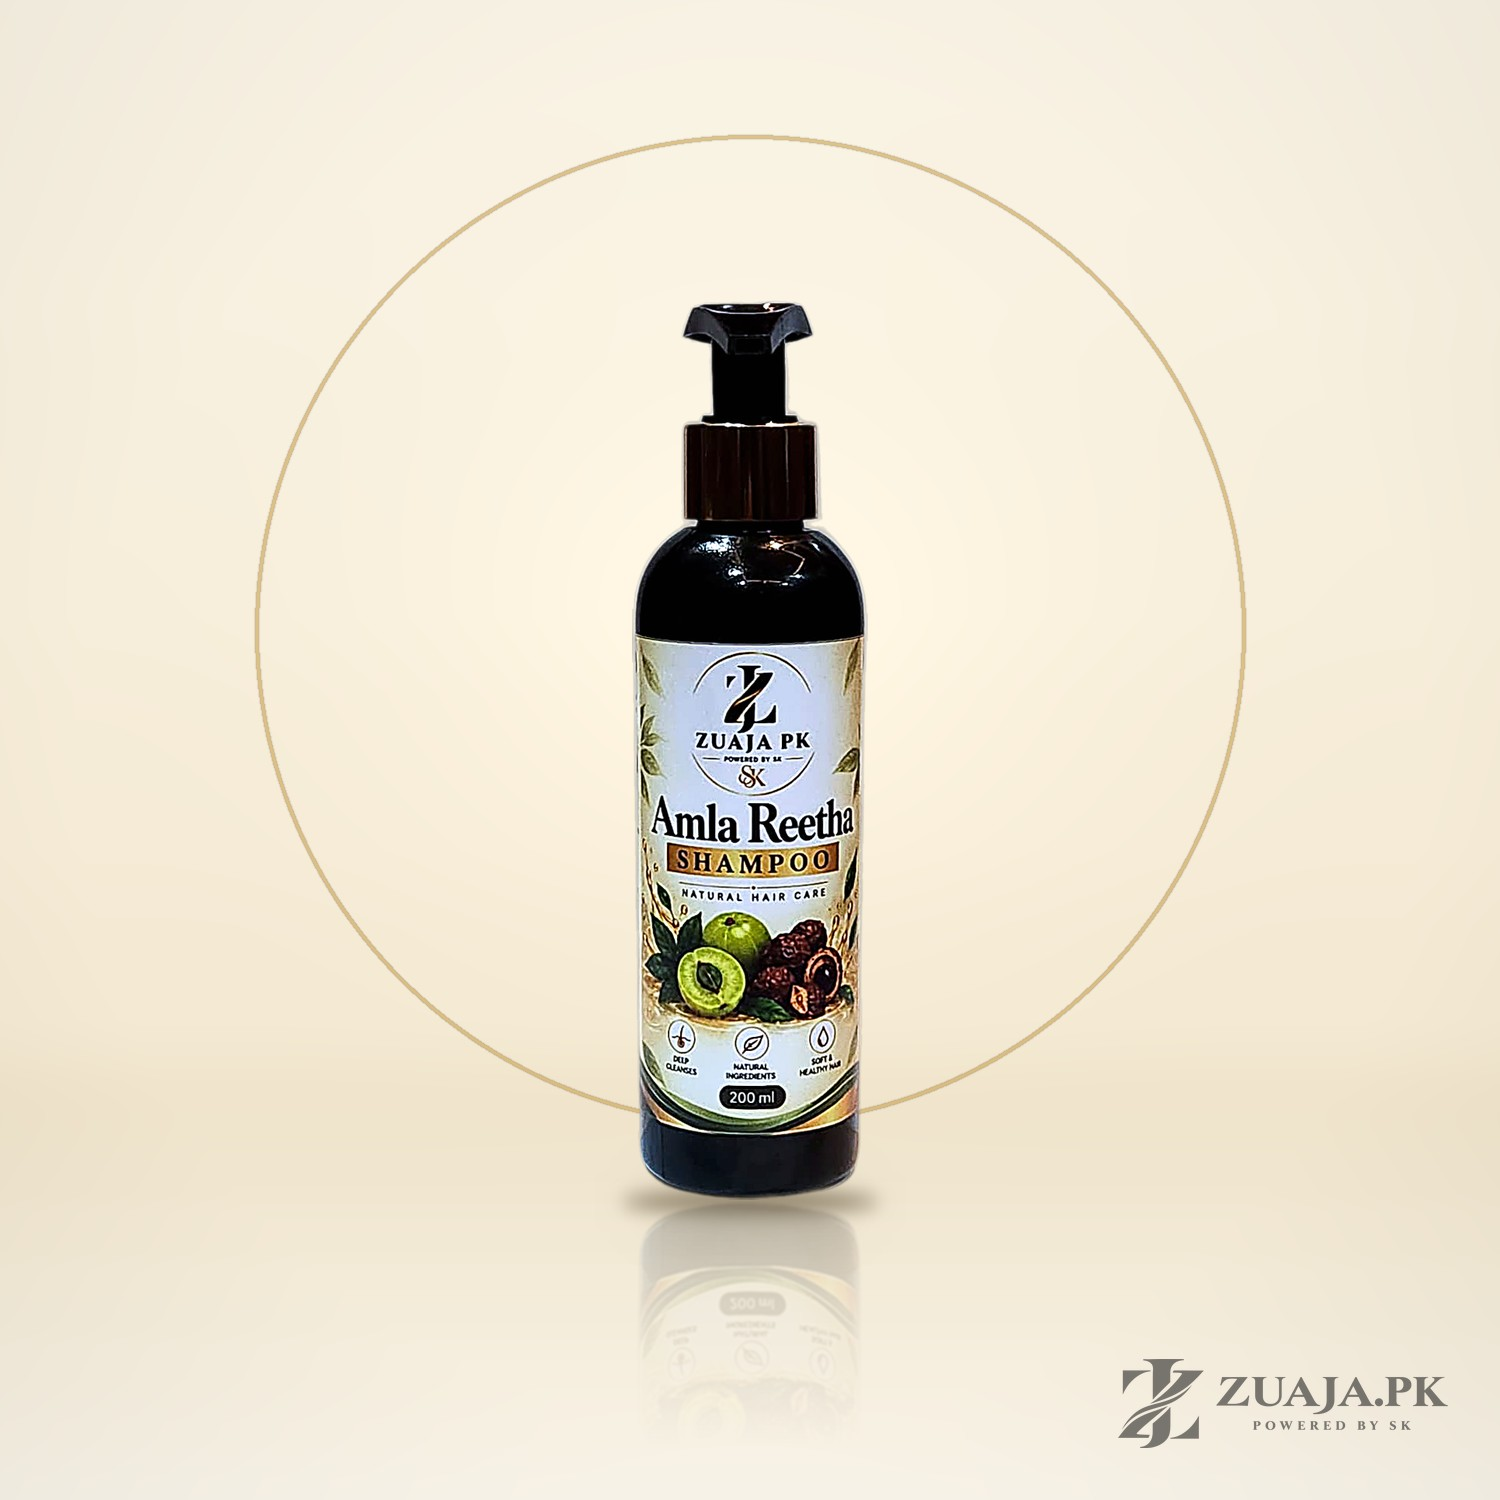
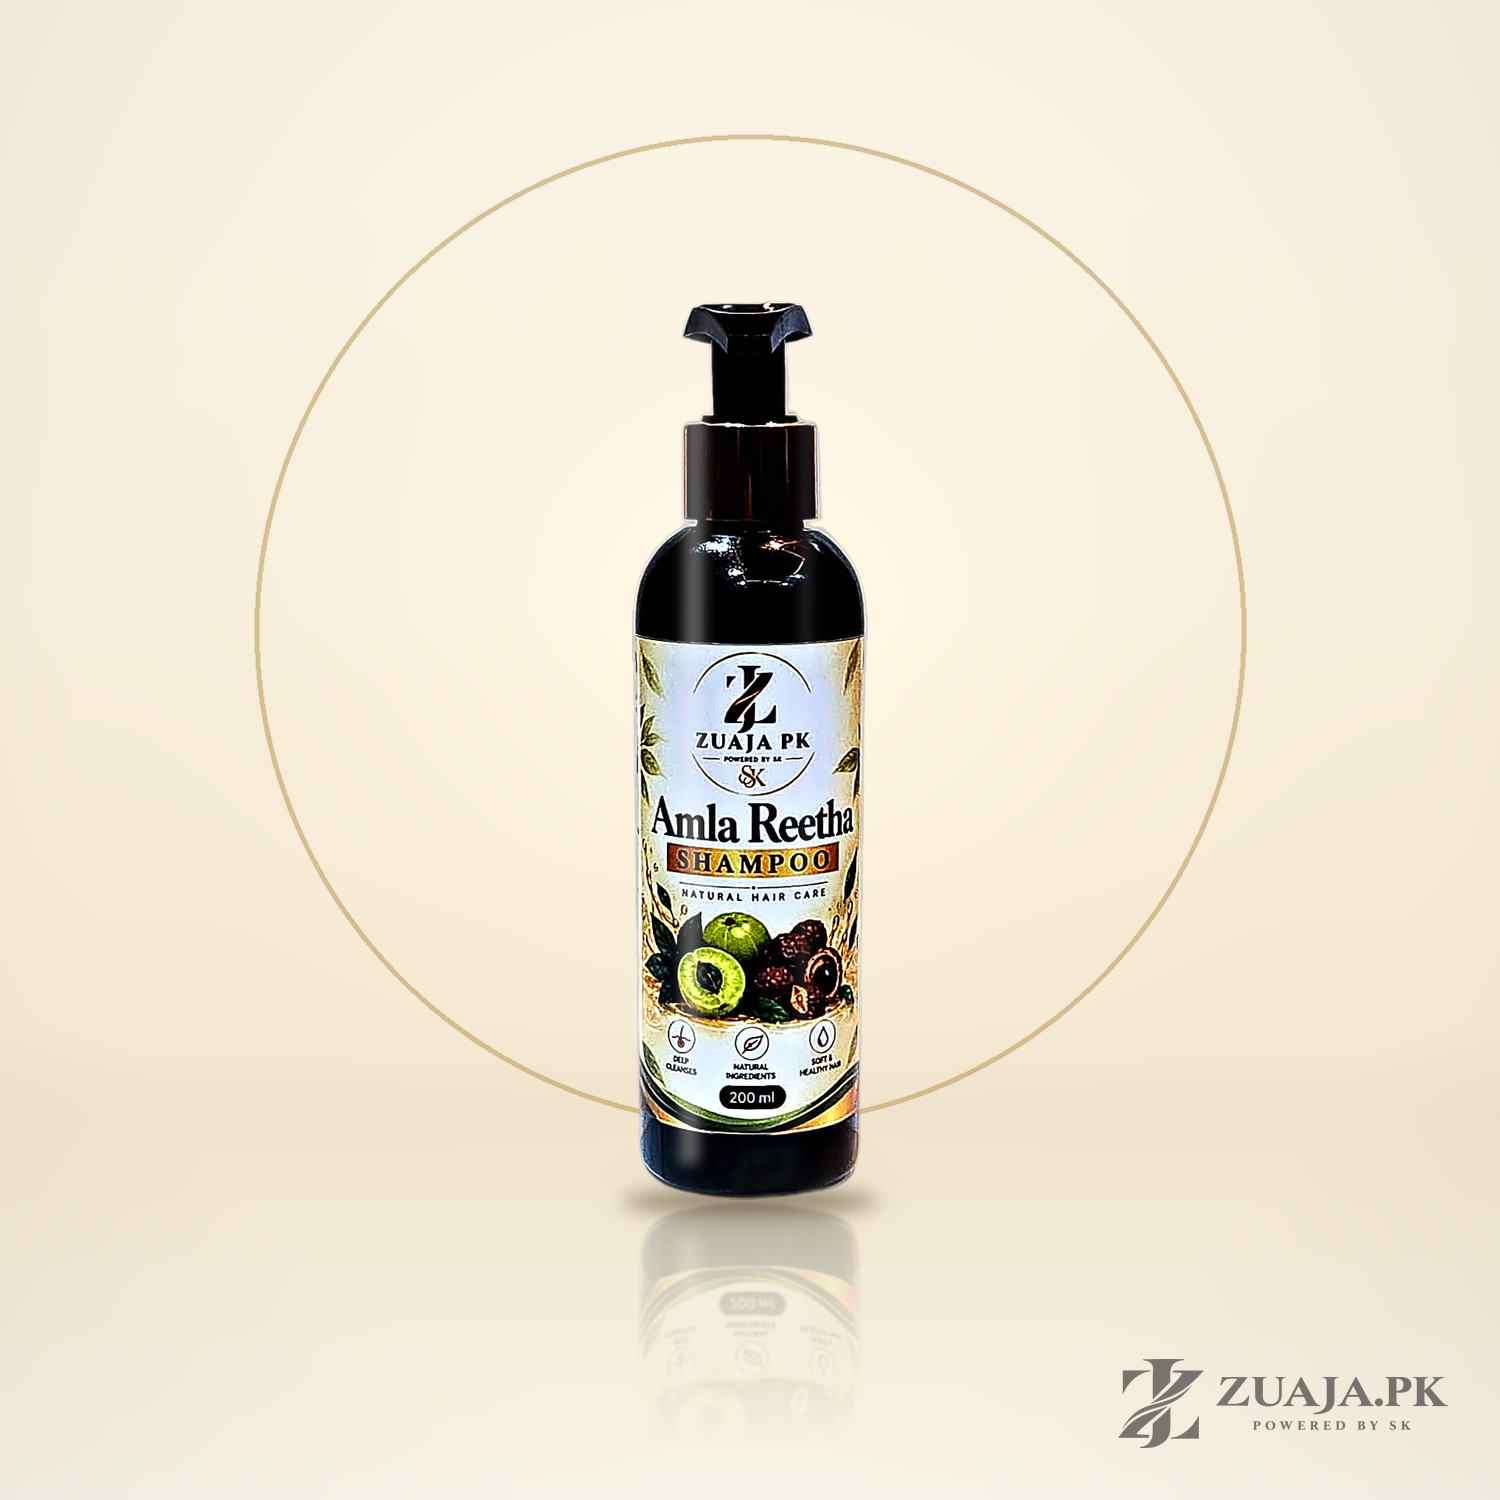
Phase 2 draft: retouched studio hero shots (clarity, colour, gloss, straightened, soap stands removed)
Claude-Session: https://claude.ai/code/session_01FHxRitzaKkbjSXsXse4VX8

Changed region(s): [[0.4293, 0.276, 0.5827, 0.7667]]

diff --git a/tools/make_podium.py b/tools/make_podium.py
@@ -93,23 +93,53 @@ def podium(c):
     return cx, top_y
 
 
-def retouch(p):
+def retouch(p, gloss=True):
+    """Studio retouch from the real photo: balance, S-curve, clarity, vibrance, then a soft
+    vertical studio-light gloss on the left third (screen blend inside the product only)."""
     rgb = p.convert("RGB")
     a = np.asarray(p.getchannel("A")) > 200
     arr = np.asarray(rgb).astype(np.float32)
     if a.sum() > 500:
         px = arr[a]
-        lo, hi = np.percentile(px, 0.6, axis=0), np.percentile(px, 99.4, axis=0)
+        lo, hi = np.percentile(px, 0.5, axis=0), np.percentile(px, 99.5, axis=0)
         arr = np.clip((arr - lo) / np.maximum(hi - lo, 1) * 255, 0, 255)
         m = arr[a].mean(0)
         arr = np.clip(arr * (m.mean() / m) ** 0.6, 0, 255)
+    x = arr / 255.0
+    x = x + 0.3 * (x - x ** 2) * (2 * x - 1)  # gentle S-curve
+    x = np.clip(0.5 + (x - 0.5) * 1.08, 0, 1)
+    arr = x * 255
     rgb = Image.fromarray(arr.astype(np.uint8))
-    rgb = ImageEnhance.Color(rgb).enhance(1.1)
-    rgb = ImageEnhance.Contrast(rgb).enhance(1.06)
-    rgb = rgb.filter(ImageFilter.UnsharpMask(radius=2.4, percent=90, threshold=2))
+    clar = rgb.filter(ImageFilter.UnsharpMask(radius=24, percent=35, threshold=0))
+    rgb = clar.filter(ImageFilter.UnsharpMask(radius=1.6, percent=110, threshold=2))
+    rgb = ImageEnhance.Color(rgb).enhance(1.16)
     out = rgb.convert("RGBA")
+    if gloss:
+        w, h = out.size
+        g = Image.new("L", (w, h), 0)
+        gd = ImageDraw.Draw(g)
+        gd.rectangle((int(w * 0.22), int(h * 0.04), int(w * 0.30), int(h * 0.96)), fill=95)
+        gd.rectangle((int(w * 0.72), int(h * 0.08), int(w * 0.75), int(h * 0.92)), fill=45)
+        g = g.filter(ImageFilter.GaussianBlur(max(4, w * 0.025)))
+        g = ImageChops.multiply(g, p.getchannel("A"))
+        white = Image.new("RGBA", (w, h), (255, 255, 255, 255))
+        out = Image.composite(Image.blend(out, ImageChops.screen(out, white), 1.0), out, g)
     out.putalpha(p.getchannel("A"))
     return out
+
+
+def drop_stand(p):
+    """Soap photos stand on a light block; cut where the dark bar ends and the block begins."""
+    arr = np.asarray(p.convert("RGBA")).astype(np.float32)
+    al = arr[..., 3] > 128
+    mean = arr[..., :3].mean(axis=2)
+    med = np.array([np.median(mean[y][al[y]]) if al[y].any() else 0 for y in range(p.height)])
+    bar = np.median(med[int(p.height * 0.2):int(p.height * 0.5)])
+    thr = max(90, bar * 2.2)
+    for y in range(int(p.height * 0.35), p.height):
+        if med[y] > thr:
+            return p.crop((0, 0, p.width, max(1, y - 4)))
+    return p
 
 
 def feather(p):
@@ -201,11 +231,16 @@ def scene(p, upright=True):
 
 for arg in sys.argv[3:]:
     key, src = arg.split("=", 1)
+    soap = src.endswith(":soap")
+    src = src[:-5] if soap else src
     flat = src.endswith(":flat")
     src = src[:-5] if flat else src
     raw = src.endswith(":raw")
     src = src[:-4] if raw else src
     p = Image.open(src).convert("RGBA")
-    p = feather(p if raw else retouch(p))
+    if soap:
+        p = drop_stand(p)
+        flat = True
+    p = feather(p if raw else retouch(p, gloss=not flat))
     scene(p, upright=not flat).save(OUT / f"{key}.jpg", quality=90, optimize=True, progressive=True)
     print(key)
